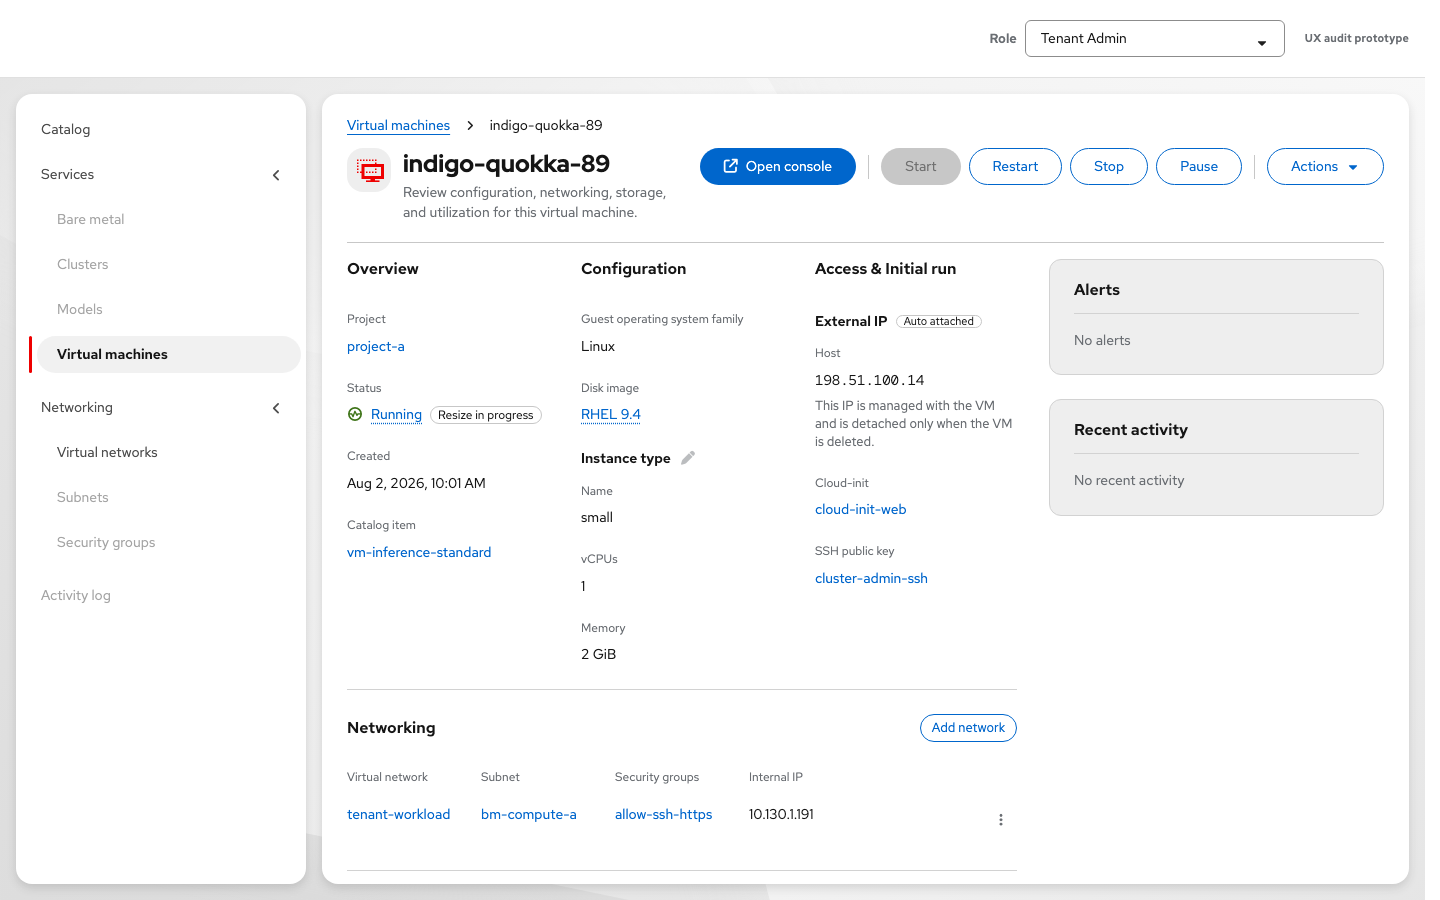
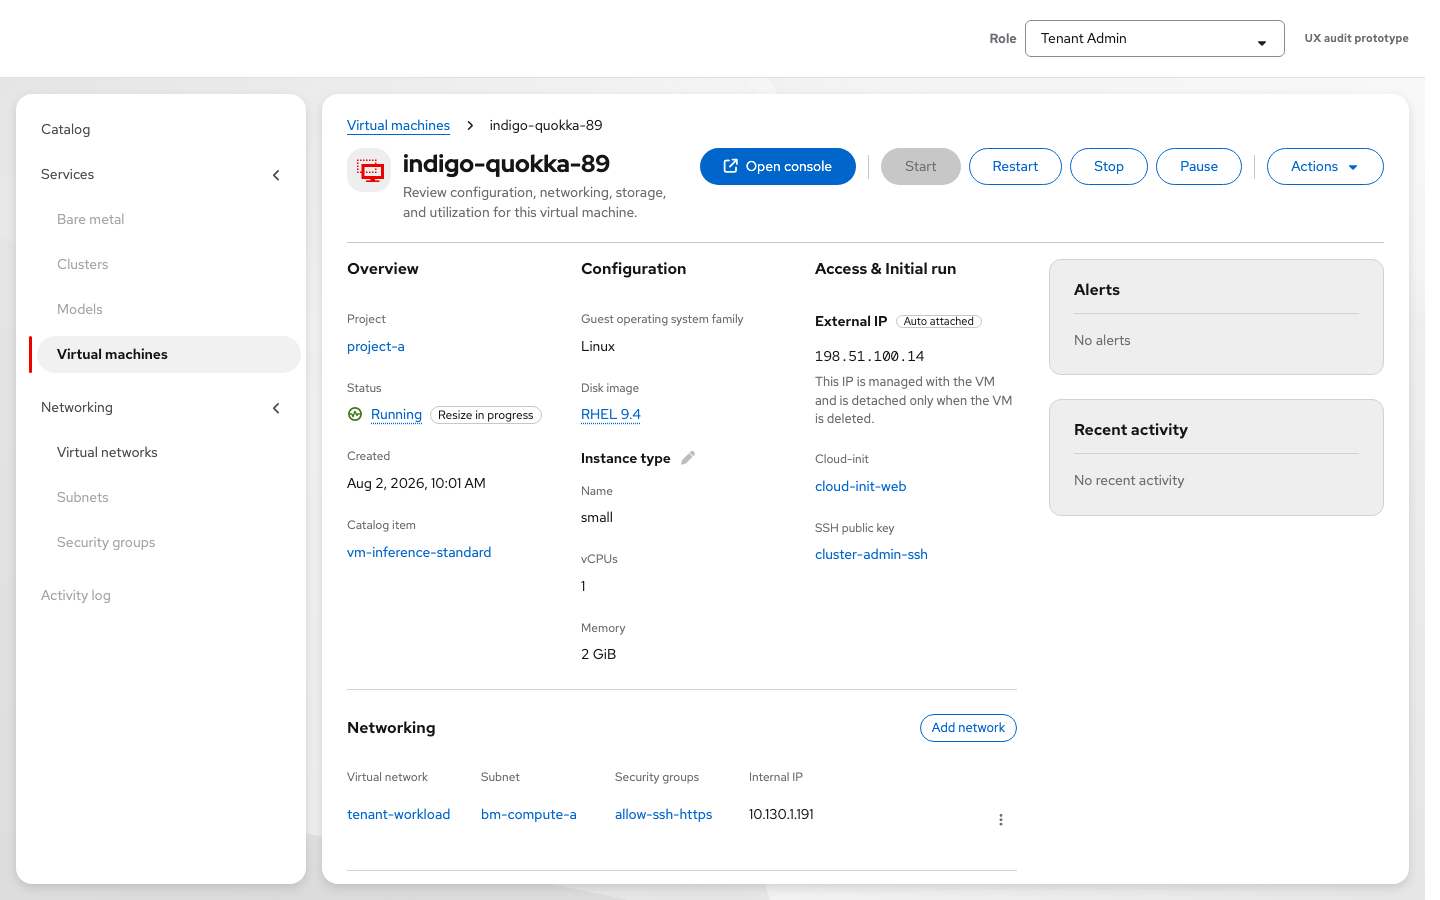
fix: remove redundant external IP host field
Assisted-by: Cursor <cursoragent@cursor.com>

Changed region(s): [[0.5625, 0.3733, 0.7188, 0.6533]]

diff --git a/apps/app-frontend/public/vmaas-ux-prototype.html b/apps/app-frontend/public/vmaas-ux-prototype.html
@@ -15361,19 +15361,17 @@
       const attachedIp = status === 'attached' && vm.externalIp ? String(vm.externalIp) : '';
       const safeIp = attachedIp.replace(/</g, '&lt;');
 
-      let hostValue = '—';
-      let hostMeta = '';
+      let addressHtml = '';
+      let statusHtml = '';
       if (status === 'attached' && attachedIp) {
-        hostValue = `<code>${safeIp}</code>`;
+        addressHtml = `<code>${safeIp}</code>`;
       } else if (status === 'attaching') {
-        hostValue = '<span class="muted">—</span>';
-        hostMeta = `<p class="vm-access-section__meta"><span class="vm-access-section__spinner" aria-hidden="true"></span>Attaching external IP…</p>`;
+        statusHtml = `<p class="vm-access-section__meta"><span class="vm-access-section__spinner" aria-hidden="true"></span>Attaching external IP…</p>`;
       } else if (status === 'failed') {
-        hostValue = '<span class="muted">—</span>';
         const err = vm.externalIpError
           ? String(vm.externalIpError).replace(/</g, '&lt;')
           : 'Failed to attach external IP.';
-        hostMeta = `<p class="vm-access-section__meta vm-access-section__meta--danger" role="alert">${err}</p>`;
+        statusHtml = `<p class="vm-access-section__meta vm-access-section__meta--danger" role="alert">${err}</p>`;
       }
 
       let actions = '';
@@ -15389,19 +15387,15 @@
         actions = `<button type="button" class="pf-v6-c-button pf-m-secondary pf-m-small" data-ip-toggle="external">Attach external IP</button>`;
       }
 
-      const hostHtml = `
-        <div class="vm-access-section__host-row">
-          <span>${hostValue}</span>
-          ${status === 'failed' ? '' : actions}
-        </div>
-        ${hostMeta}
-        ${status === 'failed' && actions ? `<div class="vm-access-section__host-row pf-v6-u-mt-sm">${actions}</div>` : ''}
+      const contentHtml = `
+        ${addressHtml || actions ? `<div class="vm-access-section__host-row">${addressHtml}${actions}</div>` : ''}
+        ${statusHtml}
         ${autoAttached ? '<p class="vm-access-section__meta">This IP is managed with the VM and is detached only when the VM is deleted.</p>' : ''}`;
 
       return `
         <section class="vm-access-section" aria-labelledby="vm-access-eip-title">
           <h4 class="ethan-detail-col__subtitle vm-access-section__title" id="vm-access-eip-title">External IP${autoAttached ? ' <span class="pf-v6-c-label pf-m-outline pf-m-grey pf-m-compact"><span class="pf-v6-c-label__content"><span class="pf-v6-c-label__text">Auto attached</span></span></span>' : ''}</h4>
-          ${itField('Host', hostHtml)}
+          ${contentHtml}
         </section>`;
     }
 

diff --git a/docs/tenant-networking-ux-handoff.md b/docs/tenant-networking-ux-handoff.md
@@ -12,10 +12,14 @@ Follow the [Google UX handoff](https://docs.google.com/document/d/1Bb-TzaXkhdASe
 
 On VM Overview, an auto-attached external IP shows **Auto attached** beside the External IP heading as a neutral, outlined PatternFly 6 felt glass status label. The address remains managed with the VM and cannot be detached separately.
 
-During manual attachment, keep **Host** as “—” and show inline progress. Show the address under Host only after attachment succeeds. If attachment fails, keep Host as “—” and show “Failed to attach external IP.” without Retry, Choose another, or Detach. Detach is available only when an IP is confirmed attached. The failed state does not show the attempted address as though it were attached.
+The **External IP** heading is sufficient; do not add a Host label or empty placeholder below it. During manual attachment, show inline progress. Show the address directly below the heading only after attachment succeeds. If attachment fails, show “Failed to attach external IP.” without Retry, Choose another, or Detach. Detach is available only when an IP is confirmed attached.
 
 ![Auto attached external IP status label](screenshots/latest-ux/tenant-networking-auto-ip-badge.png)
 
+![No external IP attached](screenshots/latest-ux/tenant-networking-no-ip.png)
+
+![Manually attached external IP](screenshots/latest-ux/tenant-networking-manual-ip.png)
+
 ![External IP attachment in progress](screenshots/latest-ux/tenant-networking-attach-loading.png)
 
-![External IP attachment failed with no attached host](screenshots/latest-ux/tenant-networking-attach-failed.png)
+![External IP attachment failed with no address shown](screenshots/latest-ux/tenant-networking-attach-failed.png)
